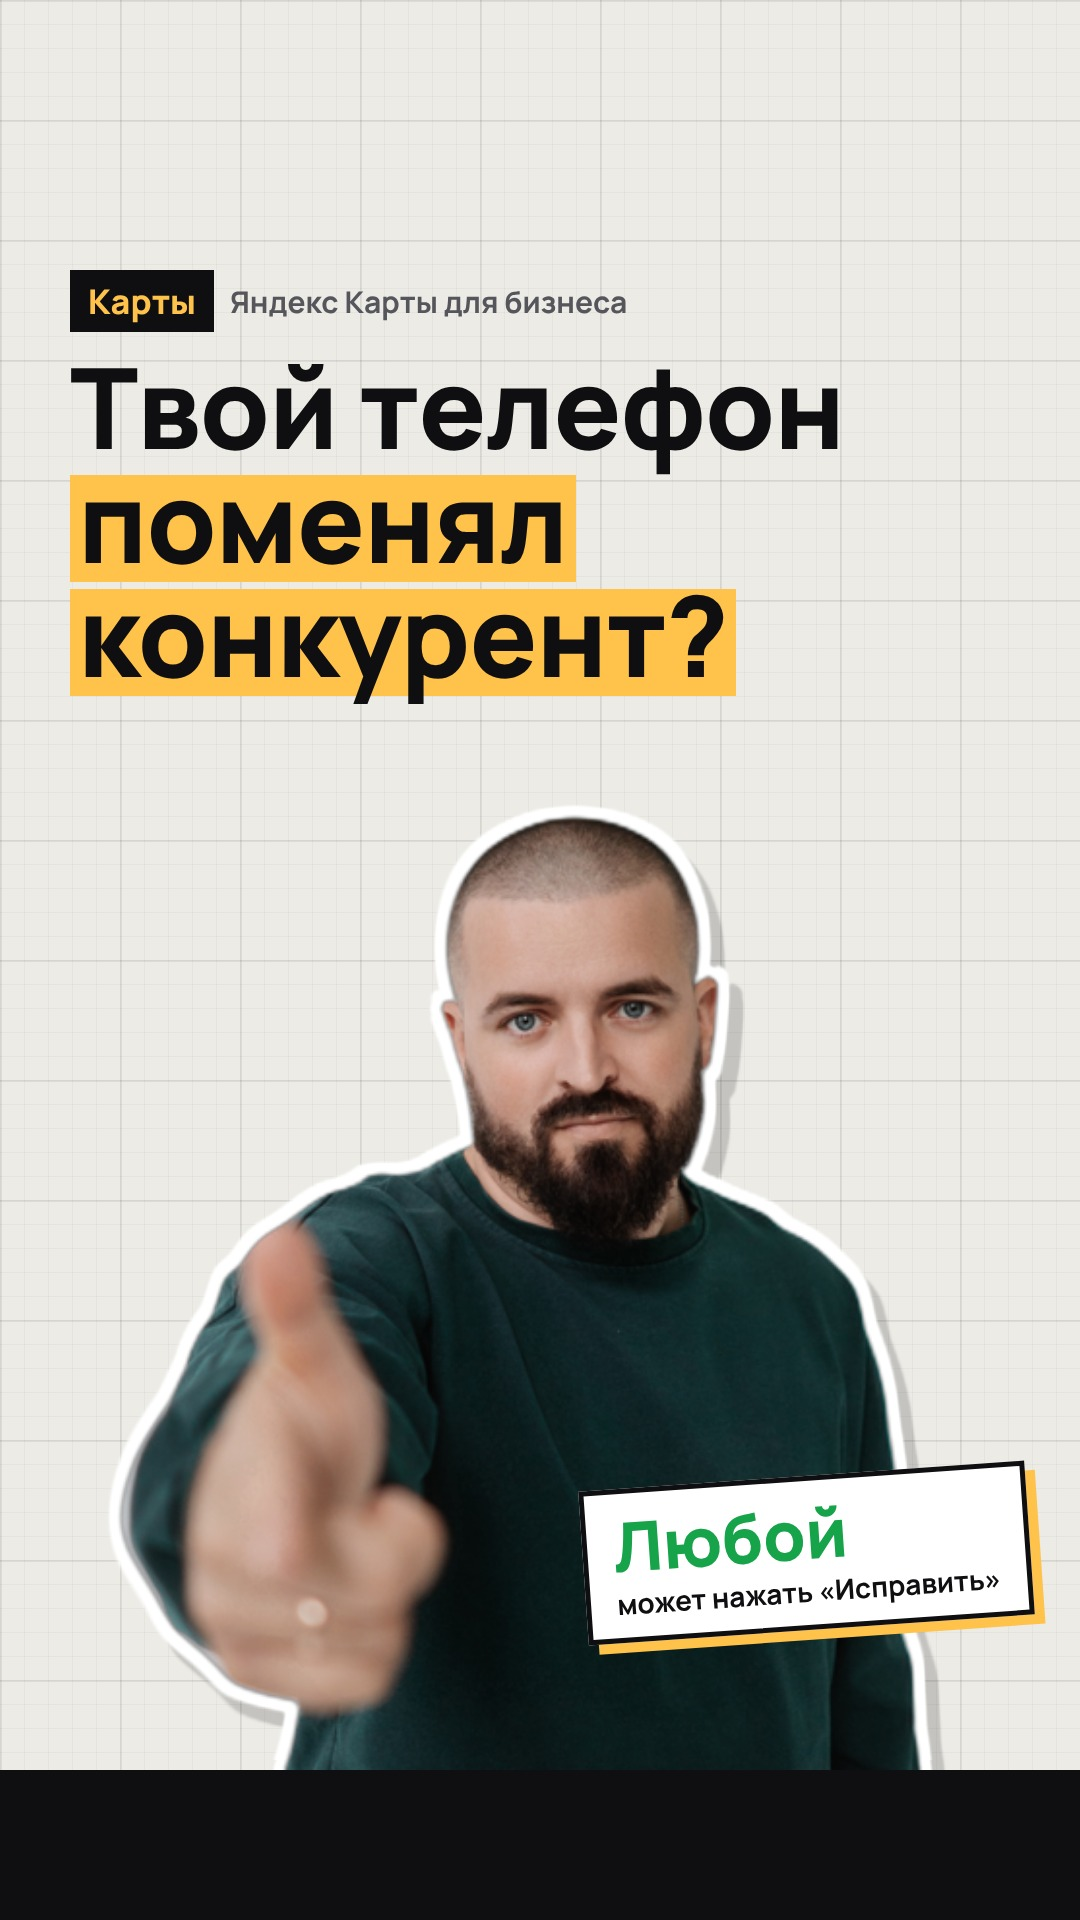
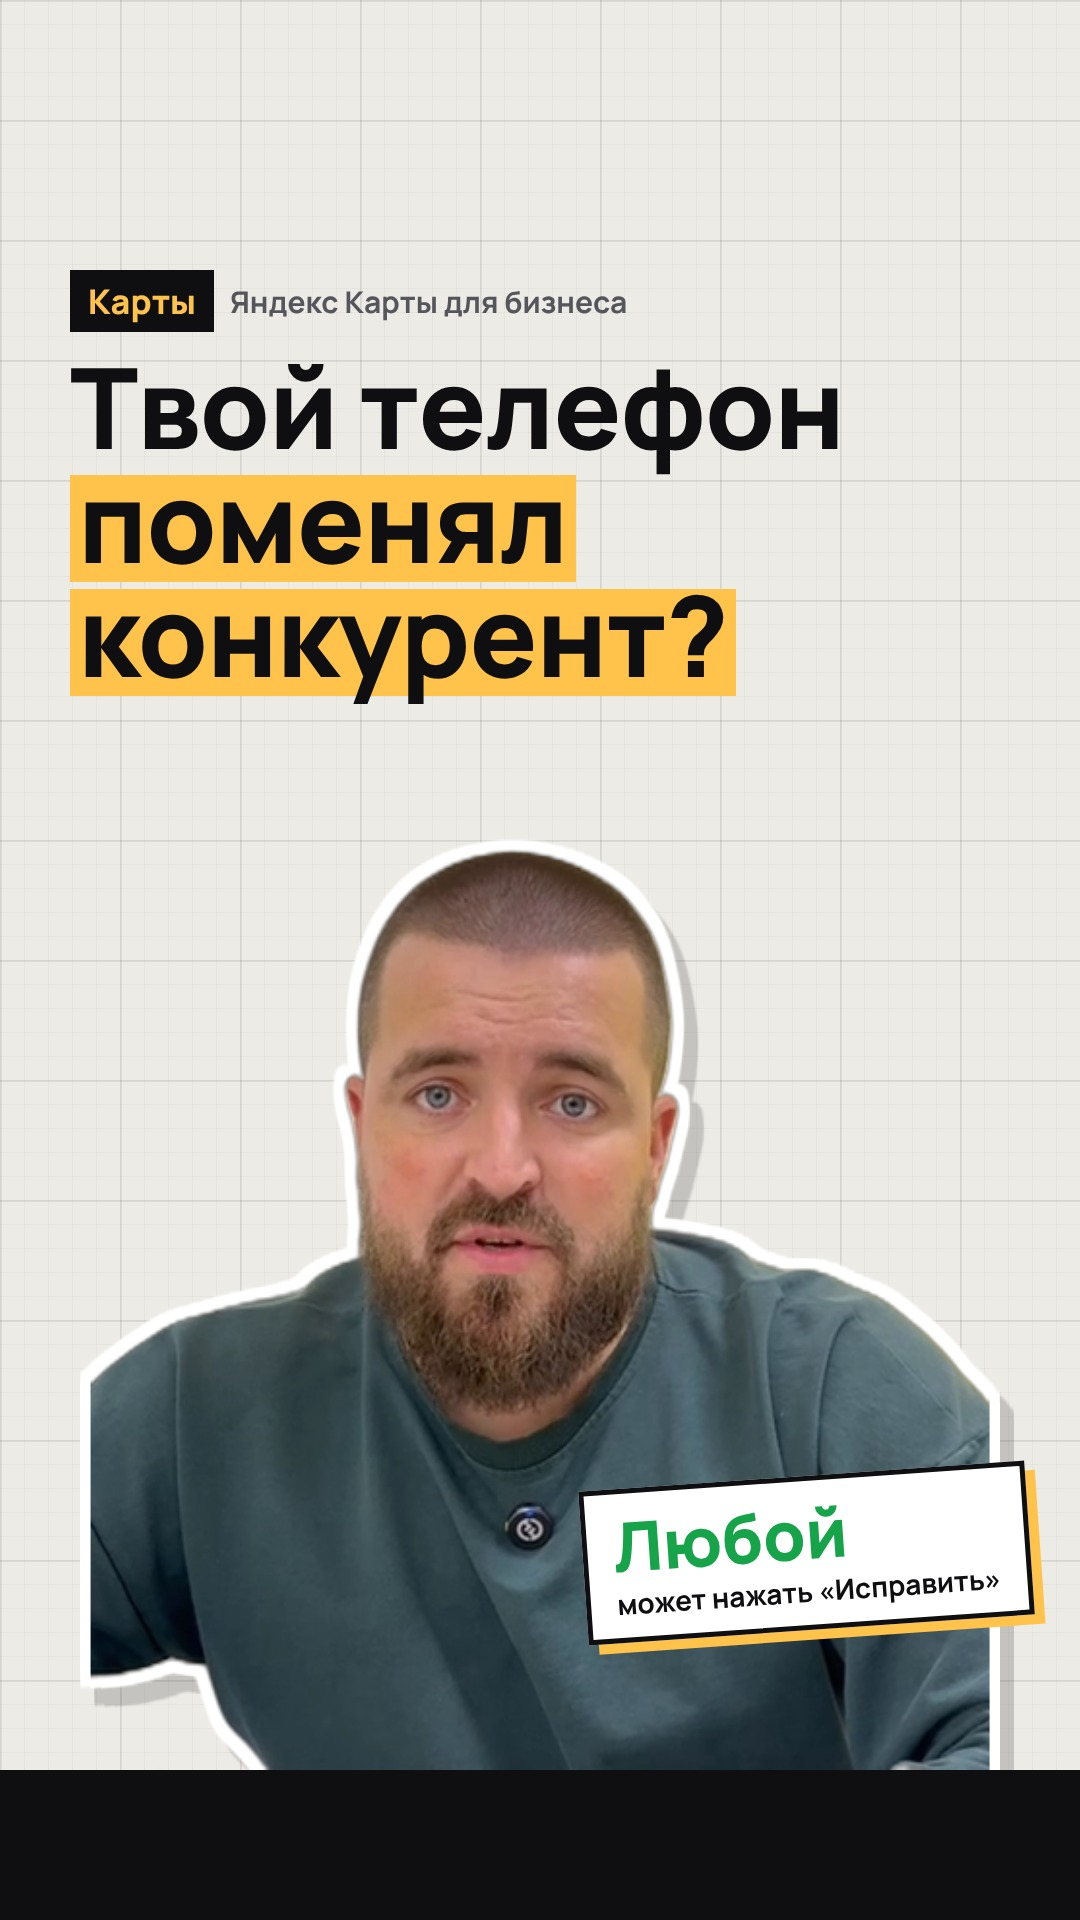
Cover 07: photo from the video's last frame; revert cover-as-last-frame rule
Claude-Session: https://claude.ai/code/session_01L5ersC6MY2f9vKxfXU8GBH

Changed region(s): [[0.0611, 0.4062, 0.9472, 0.9375], [0.7639, 0.8438, 0.9472, 0.9375]]

diff --git a/instagram/edits/PRINCIPLES.md b/instagram/edits/PRINCIPLES.md
@@ -26,13 +26,12 @@
 - **Коллажи** — крупно (заголовок 80 px, пункты 56–64 px), чтобы не было пустоты.
 
 ## Обложки
+- **Фото на обложку:** если пользователь просит «последний кадр» — брать кадр из исходника в конце ролика (без субтитров и графики), а не вклеивать обложку в видео.
 - **Фотосессия для обложек:** https://disk.yandex.ru/d/oFarIA2kQYafyQ (238 фото, превью через API Диска). Для обложек роликов, снятых дома, брать фото оттуда под смысл заголовка (07: палец на зрителя — «ТВОЙ телефон…», Image00134).
 - **Не грустное лицо:** на обложке — живой кадр (улыбка, поднятые брови, «вопрос»), не нейтрально-печальный. Если улыбок в записи нет — сказать и предложить снять 2–3 с улыбки отдельно.
 - **Глаза открыты, взгляд в камеру** — перебирать кадры (8–16), выбирать вручную.
 - Жёлтая подложка ключевого слова — узкая полоса (20–90 %), не перекрывает соседние строки.
 - Заголовок ≤ 3 строк и не заходит на голову; стикер помещается по ширине.
-
-- **Последний кадр ролика = обложка (1 с, без звука)** — склеивать в конец финального рендера: ffmpeg concat видео + `covers/cover-*.jpg` (loop 1 с) + тишина. Так обложка видна в Shorts, VK и Telegram, где свою обложку загрузить нельзя.
 
 ## Процесс
 - После каждого SP-ролика: `python3 instagram/edits/talk_usage.py` → строка «⏱ Лимит» в трекере (лимит 20 мин).

diff --git a/instagram/edits/07/README.md b/instagram/edits/07/README.md
@@ -2,4 +2,4 @@
 
 Сырая запись IMG_3255.MOV (246 с, 464×848) → 56,1 с (v3: убраны повторные заходы «Узнаёшь только…» и «Без неё ты падаешь…»). Выбраны лучшие дубли (18 отрезков, `cut.py`), кадр без ладоней: crop 338×600 @ 46,20 → 1080×1920. Запись экрана (`screencast.py`): «Исправить неточность» → форма → поле «Телефон» → «Исправление на проверке»; название/адрес/сайт чужой карточки размыты, ввод номера вырезан. Графика (`build.py`): хук-плашки, телефон с записью экрана, «кто угодно», «если правку приняли», галочка владельца, выдача, «что сделать за 5 минут», фраза-скриншот, «КАРТЫ». Обложка — `covers/cover-r07.jpg`.
 
-v4: в конец добавлена обложка `covers/cover-r07.jpg` на 1 с (последний кадр), итог 57,1 с.
+Обложка: фото — последний кадр ролика (исходник 4:01,5). Финальное видео — v3 (56,1 с).
